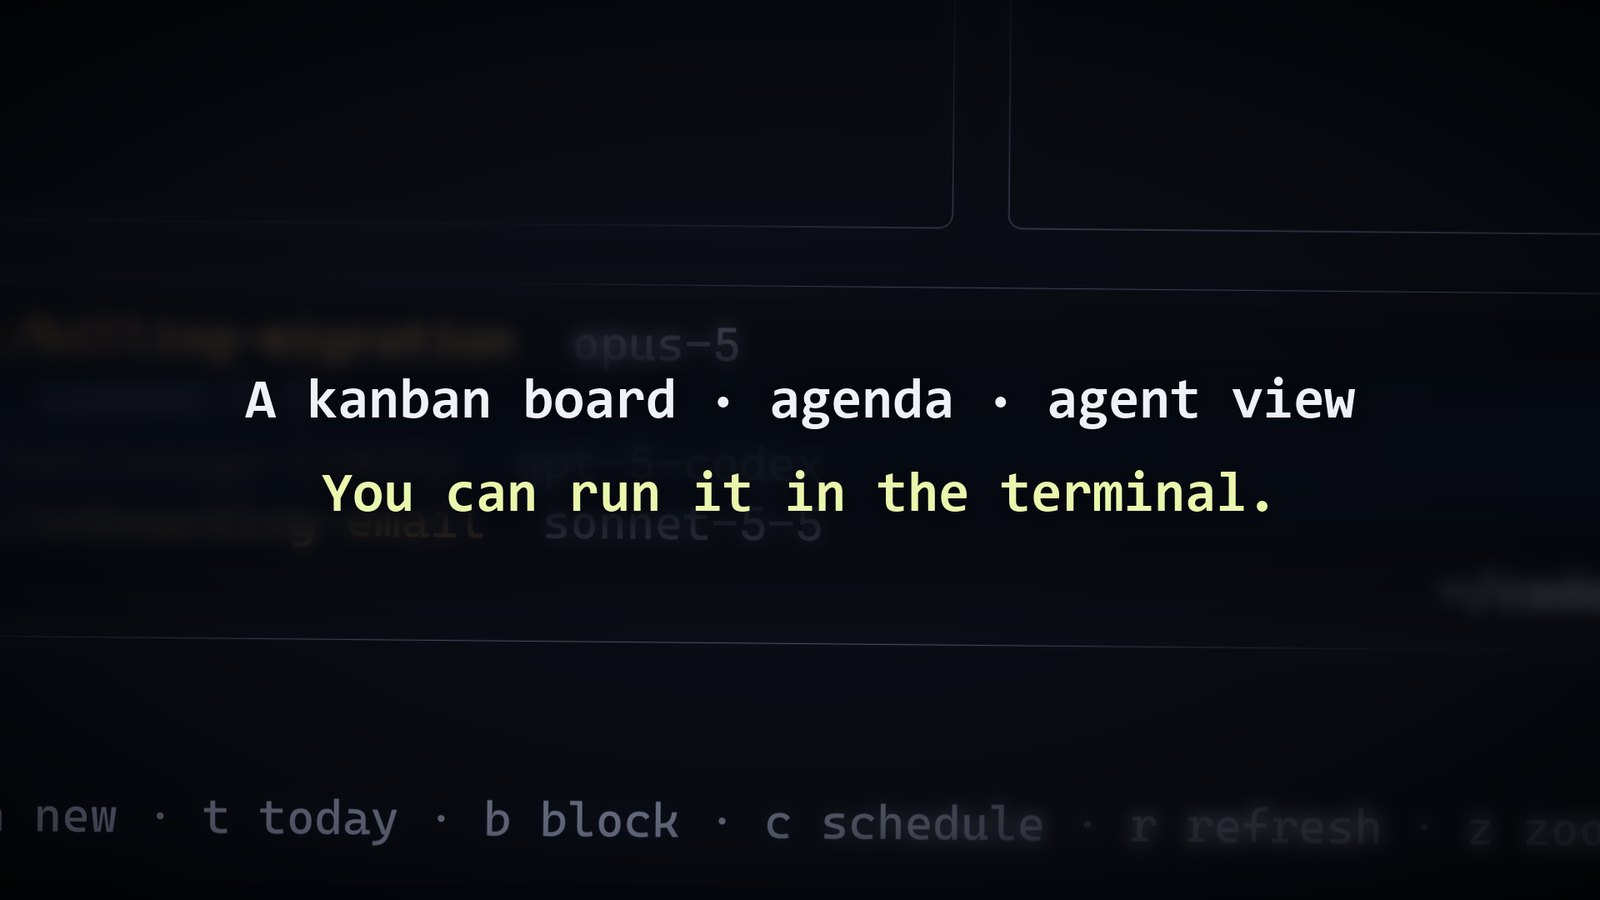
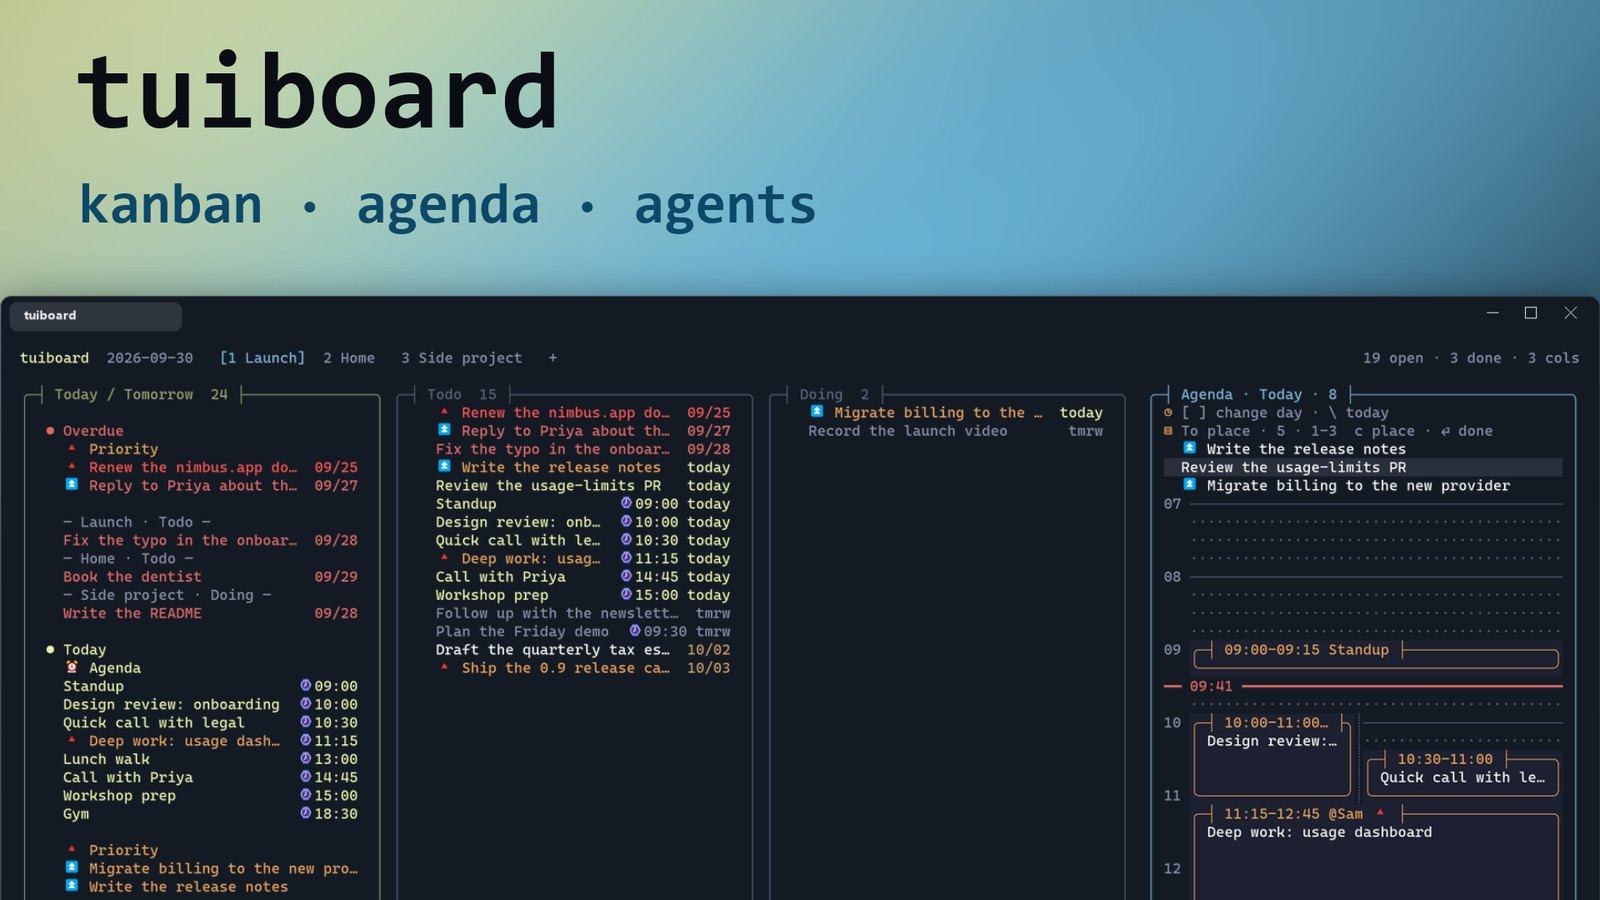
feat: the film's poster is the whole tool on the brand gradient; link to the video on YouTube
Claude-Session: https://claude.ai/code/session_01Sck7sfgjtnad3pAyyKVej4

diff --git a/css/style.css b/css/style.css
@@ -606,5 +606,5 @@ html.fx [data-reveal-group].is-in > *:nth-child(4) { transition-delay: .21s; }
 .film__frame { max-width: 1000px; margin-inline: auto; }
 .film__player { position: relative; background: #05080f; }
 .film__player video { display: block; width: 100%; height: auto; aspect-ratio: 16 / 9; background: #05080f; }
-.film__play { position: absolute; left: 50%; top: 80%; transform: translate(-50%, -50%); } /* under the poster's headline, not over it */
+.film__play { position: absolute; left: 50%; top: 64%; transform: translate(-50%, -50%); } /* over the window, under the poster's headline */
 .film__play[hidden] { display: none; }

diff --git a/index.html b/index.html
@@ -127,7 +127,7 @@
         <button class="btn btn--primary film__play" id="film-play" type="button">[ ▶ Watch the film · 36 s ]</button>
       </div>
     </div>
-    <p class="term__cap">recorded from the real app on an invented demo board · the music was made with Suno</p>
+    <p class="term__cap">recorded from the real app on an invented demo board · the music was made with Suno · <a href="https://youtu.be/T7ghPHfvGXg" target="_blank" rel="noopener">also on YouTube ↗</a></p>
   </div>
 </section>
 
